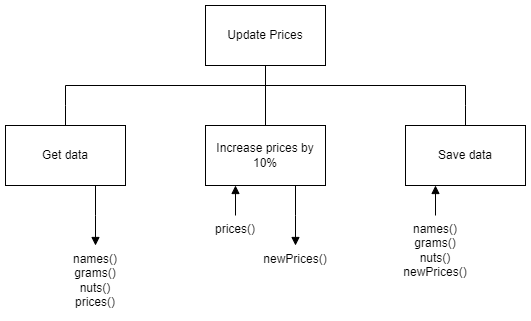
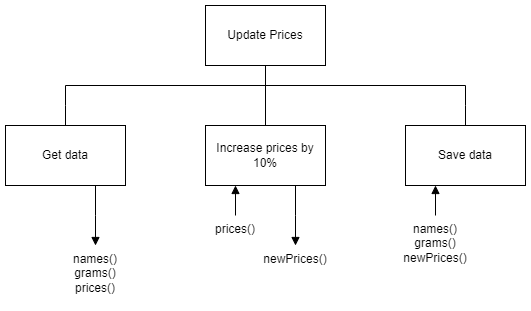
Updated task

diff --git a/higher/H-SDD-Update-Prices/assets/solution.py b/higher/H-SDD-Update-Prices/assets/solution.py
@@ -1,28 +1,28 @@
-# Title: H SDD Update Countries
+# Title: H SDD Update Prices
 # Author: Mr Friend
-# Date 5 Sep 2023
+# Date 22 Aug 2024
 
 #
 # Subprograms
 #
 
 def getData():
-    """Return parallel arrays from countries.csv"""
+    """Return parallel arrays from costs.csv"""
 
     # Declare local variable and arrays
     line = ""
     
-    caps = [""] * 6
-    states = [""] * 6
-    pops = [0.0] * 6
+    subNames = [""] * 7
+    subWeights = [""] * 7
+    subPrices = [0.0] * 7
     
-    temp = [""] * 3
+    temp = [""] * 4
     
     # Open connection to file
-    file = open("countries.csv", "r")
+    file = open("costs.csv", "r")
 
     # Loop for each line of data
-    for index in range(len(caps)):
+    for index in range(len(subNames)):
         # Read line of data
         line = file.readline()
 
@@ -30,53 +30,54 @@ def getData():
         temp = line.split(",")
 
         # Assign values to arrays
-        caps[index] = temp[0].strip()
-        states[index] = temp[1].strip()
-        pops[index] = float(temp[2].strip())
+        subNames[index] = temp[0].strip()
+        subWeights[index] = int(temp[1].strip())
+        subPrices[index] = float(temp[2].strip())
+        
 
     # close connection to file
     file.close()
 
     # Return data
-    return caps, states, pops
+    return subNames, subWeights, subPrices
 
 
-def increase(values):
+def increase(subPrices):
     """Return array of real, increased by 10%"""
 
     # Declare local variables and array
-    value = 0.0
-    newValue = 0.0
+    price = 0.0
+    newPrice = 0.0
     
-    newValues = [0.0] * len(values)
+    subNewPrices = [0.0] * len(subPrices)
 
     # Loop for each value
-    for index in range(len(values)):
+    for index in range(len(subPrices)):
 
         # Extract population
-        value = values[index]
+        price = subPrices[index]
 
-        # Increase by 10% and round to 1 dp
-        newValue = round(value * 1.1, 1)
+        # Increase by 10% and round to 2 dp
+        newPrice = round(price * 1.1, 2)
 
         # Store new value
-        newValues[index] = newValue
+        subNewPrices[index] = newPrice
 
     # Return values
-    return newValues
+    return subNewPrices
 
 
-def saveData(states, caps, pops):
+def saveData(subNames, subWeights, subPrices):
     """Save parallel arrays to updated.csv"""
     
     # Open connection to file
     file = open("updated.csv", "w")
 
     # Loop for each line of data
-    for index in range(len(caps)):
-        file.write(states[index] + ",")
-        file.write(caps[index] + ",")
-        file.write(str(pops[index]) + "\n")
+    for index in range(len(subNames)):
+        file.write(subNames[index] + ",")
+        file.write(str(subWeights[index]) + ",")
+        file.write(str(subPrices[index]) + "\n")
 
     # close connection to file
     file.close()
@@ -87,16 +88,16 @@ def saveData(states, caps, pops):
 #
 
 # Declare global variables and arrays
-countries = [""] * 6
-capitals = [""] * 6
-populations = [0.0] * 6
-newPops = [0.0] * 6
+names = [""] * 7
+weights = [0] * 7
+prices = [0.0] * 7
+newPrices = [0.0] * 7
 
 # Get data
-capitals, countries, populations = getData()
+names, weights, prices = getData()
 
 # Increase population
-newPops = increase(populations)
+newPrices = increase(prices)
 
 # Save data
-saveData(countries, capitals, newPops)
+saveData(names, weights, newPrices)

diff --git a/higher/H-SDD-Update-Prices/instructions.md b/higher/H-SDD-Update-Prices/instructions.md
@@ -1,5 +1,5 @@
 # H SDD - Update Prices
 
-The file [costs.csv](assets/costs.csv "CSV file") contains the information about seven sweets that are sold in a tuck shop.  There are four fields in the file: Name, Weight, Contains nuts, and Price.  Increase the prices by 10%, and then save the data in a new file called `updated.csv`.
+The file [costs.csv](assets/costs.csv "CSV file") contains the information about seven sweets that are sold in a tuck shop.  There are three fields in the file: Name, Weight, and Price.  Increase the prices by 10%, and then save the data in a new file called `updated.csv`.
 
 ![Structure diagram](assets/sd.png)
